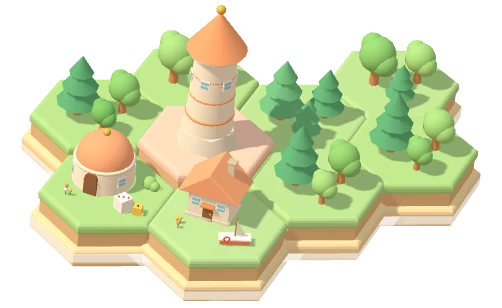
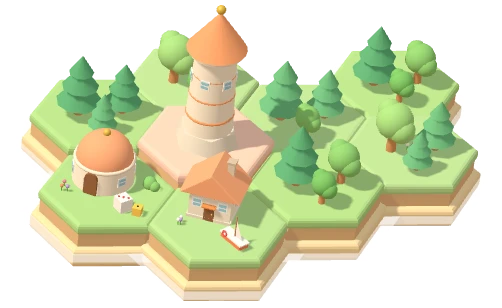
feat: 小常識島上架（島圖 7 入口、3D 小物、清單頁、README、報表頁名）

diff --git a/list.html b/list.html
@@ -294,23 +294,7 @@
                 <span class="play-btn">▶ 開始玩</span>
             </a>
 
-            <a href="./units/unit8-desktop-organizer/index.html" class="card" style="--c: #eab308;">
-                <span class="skill-tag">檔案整理</span>
-                <div class="card-cover">📁🖥</div>
-                <h3 class="card-title">桌面整理大師</h3>
-                <p class="card-desc">把作業、音樂、圖片拖到對的資料夾！學會分類整理，桌面再也不亂啦。</p>
-                <p class="card-score" id="unit8-score-badge" style="display:none;"></p>
-                <span class="play-btn">▶ 開始玩</span>
-            </a>
-
-            <a href="./units/unit9-net-detective/index.html" class="card" style="--c: #3b82f6;">
-                <span class="skill-tag">看圖判斷</span>
-                <div class="card-cover">🕵🛡</div>
-                <h3 class="card-title">網路小警察</h3>
-                <p class="card-desc">看三個圖，找出有沒有壞壞的！判斷好人壞人，當小偵探。</p>
-                <p class="card-score" id="unit9-score-badge" style="display:none;"></p>
-                <span class="play-btn">▶ 開始玩</span>
-            </a>
+            <!-- unit8 桌面整理大師、unit9 網路小警察：2026-11-22 重做成小常識島的寵物版，卡片搬到下方「小常識島」區塊 -->
 
             <a href="./units/unit10-classifier-captain/index.html" class="card" style="--c: #92400e;">
                 <span class="skill-tag">觀察分類</span>
@@ -482,6 +466,70 @@
         </div>
     </section>
 
+    <!-- ===== 小常識島：數位寵物養成（2026-11-22 改版，1–4 年級） ===== -->
+    <section class="grade-section" style="background: #f3eafb;">
+        <h2 style="color: #3b2350;">📁 小常識島：數位寵物養成</h2>
+        <p class="grade-hint" style="color: #3b2350;">先到寵物屋領養一隻寵物（填座號和名字，一台電腦可以住好幾隻），每過一關拿點心餵牠，集滿會長大，還能解鎖新衣服。</p>
+        <div class="card-grid">
+            <a href="./units/smart-pet-house/index.html" class="card" style="--c: #8a6ae0;">
+                <span class="skill-tag">從這裡開始</span>
+                <div class="card-cover">🏠🐾</div>
+                <h3 class="card-title">寵物小屋</h3>
+                <p class="card-desc">領養雲朵兔、鍵盤龜、螢幕貓或燈泡雞，幫牠取名字、換衣服，看看 6 關玩到哪裡。（附注音）</p>
+                <p class="card-score" id="pet-house-badge" style="display:none;"></p>
+                <span class="play-btn">▶ 進去看看</span>
+            </a>
+            <a href="./units/unit29-pet-computer/index.html" class="card" style="--c: #2f86c8;">
+                <span class="skill-tag">1–2 年級・認識電腦</span>
+                <div class="card-cover">💻🖱</div>
+                <h3 class="card-title">寵物的新電腦</h3>
+                <p class="card-desc">幫寵物在書桌上找出螢幕、鍵盤、滑鼠，認識每個設備做什麼用。（附注音）</p>
+                <p class="card-score" id="unit29-score-badge" style="display:none;"></p>
+                <span class="play-btn">▶ 開始玩</span>
+            </a>
+            <a href="./units/unit30-pet-schedule/index.html" class="card" style="--c: #ff8f3f;">
+                <span class="skill-tag">1–2 年級・健康使用</span>
+                <div class="card-cover">⏰👀</div>
+                <h3 class="card-title">寵物作息表</h3>
+                <p class="card-desc">坐姿對不對、眼睛累了怎麼辦、睡前能不能玩平板，幫寵物排好健康的一天。（附注音）</p>
+                <p class="card-score" id="unit30-score-badge" style="display:none;"></p>
+                <span class="play-btn">▶ 開始玩</span>
+            </a>
+            <a href="./units/unit8-desktop-organizer/index.html" class="card" style="--c: #eab308;">
+                <span class="skill-tag">1–4 年級・檔案整理</span>
+                <div class="card-cover">📁🖥</div>
+                <h3 class="card-title">寵物房間大整理</h3>
+                <p class="card-desc">原「桌面整理大師」：把作業、音樂、圖片拖到對的資料夾，看圖示不要被檔名騙了！（附注音）</p>
+                <p class="card-score" id="unit8-score-badge" style="display:none;"></p>
+                <span class="play-btn">▶ 開始玩</span>
+            </a>
+            <a href="./units/unit31-pet-message/index.html" class="card" style="--c: #b4372b;">
+                <span class="skill-tag">3–4 年級・網路安全</span>
+                <div class="card-cover">💬⚠</div>
+                <h3 class="card-title">寵物收到怪訊息</h3>
+                <p class="card-desc">陌生人要照片、帳號停用釣魚、群組有人被取笑，幫寵物想想怎麼回應才安全又有禮貌。</p>
+                <p class="card-score" id="unit31-score-badge" style="display:none;"></p>
+                <span class="play-btn">▶ 開始玩</span>
+            </a>
+            <a href="./units/unit32-pet-ai-homework/index.html" class="card" style="--c: #186b41;">
+                <span class="skill-tag">3–4 年級・資訊倫理與 AI</span>
+                <div class="card-cover">🤖📝</div>
+                <h3 class="card-title">寵物的 AI 作業</h3>
+                <p class="card-desc">AI 可以幫什麼、AI 也會出錯、跟 AI 聊天要小心：學會誠實、查證、保護自己。</p>
+                <p class="card-score" id="unit32-score-badge" style="display:none;"></p>
+                <span class="play-btn">▶ 開始玩</span>
+            </a>
+            <a href="./units/unit9-net-detective/index.html" class="card" style="--c: #3b82f6;">
+                <span class="skill-tag">3–4 年級・安全判斷</span>
+                <div class="card-cover">👮🛡</div>
+                <h3 class="card-title">寵物警察訓練</h3>
+                <p class="card-desc">原「網路小警察」：看情境卡判斷安全還是危險，5 關考過就是網路小警察！</p>
+                <p class="card-score" id="unit9-score-badge" style="display:none;"></p>
+                <span class="play-btn">▶ 開始玩</span>
+            </a>
+        </div>
+    </section>
+
     <!-- ===== 雙人對戰：兩台電腦連線（unit23 起），之後的對戰遊戲放這裡 ===== -->
     <section class="grade-section" style="background: #fff4d6;">
         <h2 style="color: #1b1b3a;">⚔ 雙人對戰</h2>
@@ -533,7 +581,7 @@
     function loadLocalScore(unitId) {
         return localStorage.getItem(`edtech-unit${unitId}-score`) || null;
     }
-    [1, 2, 3, 4, 6, 7, 8, 9, 10, 11, 12, 13, 14, 15, 16, 17, 19, 20, 21].forEach((id) => {
+    [1, 2, 3, 4, 6, 7, 10, 11, 12, 13, 14, 15, 16, 17, 19, 20, 21].forEach((id) => {   // 8、9 改版後存星星數，見 loadSmartBadges
         const score = loadLocalScore(id);
         const badge = document.getElementById(`unit${id}-score-badge`);
         if (score && badge) {
@@ -553,6 +601,20 @@
                 badge.style.display = 'inline-block';
             }
         });
+    })();
+
+    // 小常識島（2026-11-22 改版）存總星星數；寵物小屋顯示這台電腦住了幾隻寵物
+    (function loadSmartBadges() {
+        [8, 9, 29, 30, 31, 32].forEach((id) => {
+            let v = null;
+            try { v = localStorage.getItem(`edtech-unit${id}-score`); } catch (e) { /* 讀不到就不顯示 */ }
+            const badge = document.getElementById(`unit${id}-score-badge`);
+            if (v && Number(v) > 0 && badge) { badge.textContent = `⭐ 共 ${v} 顆星`; badge.style.display = 'inline-block'; }
+        });
+        let n = 0;
+        try { n = ((JSON.parse(localStorage.getItem('edtech-smart-pets') || '{}') || {}).pets || []).length; } catch (e) { /* 壞資料就不顯示 */ }
+        const pb = document.getElementById('pet-house-badge');
+        if (n && pb) { pb.textContent = `🐾 這台電腦住了 ${n} 隻寵物`; pb.style.display = 'inline-block'; }
     })();
 
     // unit22 存的是主線星星數（0～12），不是分數，另外顯示

diff --git a/island/data.js b/island/data.js
@@ -13,6 +13,7 @@
 const G1 = '🎒 一年級', GM = '📘 中年級', G3 = '🎓 三年級', GA = '🎲 都能玩';
 const T1 = '🌱 初階 1–3 年級', T2 = '🌿 進階 4–5 年級', T3 = '🌳 高階 6 年級';   // 打字島三階
 const A12 = '🎒 1–2 年級', A34 = '📘 3–4 年級', A14 = '🎨 1–4 年級';                // 畫畫島（2026-11-21 改版）
+const S14 = '⭐ 1–4 年級';                                                           // 小常識島 1–4 年級（2026-11-22；A12／A34 共用）
 
 export const ISLANDS = [
   { id:'mouse', name:'滑鼠島', icon:'🖱', color:0x5fd38d, units:[
@@ -45,9 +46,16 @@ export const ISLANDS = [
     ['對稱魔鏡','🦋','mirror','units/unit26-mirror-workshop/','對稱魔鏡工坊',A34,26],
     ['任務局','🛠','toolbox','units/unit27-paint-mission/','小畫家任務局',A34,27],
     ['煙火畫','🎆','fireworks','units/unit28-sparkle-fireworks/','閃亮亮煙火畫',A14,28] ] },   // 自由發揮、不評分（存作品張數）
+  // 小常識島（2026-11-22 改版：數位寵物養成）：寵物小屋＋新 4 關＋舊 2 關重做（unit8 桌面整理大師 → 寵物房間大整理、unit9 網路小警察 → 寵物警察訓練）
+  //   分數來源 'pet'＝讀 edtech-smart-pets，顯示這台電腦住了幾隻寵物
   { id:'smart', name:'小常識島', icon:'📁', color:0xb69bff, units:[
-    ['桌面整理','🗂','folders','units/unit8-desktop-organizer/','桌面整理大師',G1,8],
-    ['網路警察','👮','siren','units/unit9-net-detective/','網路小警察',G1,9] ] },
+    ['寵物屋','🏠','pethouse','units/smart-pet-house/','寵物小屋：領養與換裝',S14,'pet'],
+    ['新電腦','💻','pc','units/unit29-pet-computer/','寵物的新電腦',A12,29],
+    ['作息表','⏰','clock','units/unit30-pet-schedule/','寵物作息表',A12,30],
+    ['大整理','🗂','folders','units/unit8-desktop-organizer/','寵物房間大整理',S14,8],
+    ['怪訊息','💬','chat','units/unit31-pet-message/','寵物收到怪訊息',A34,31],
+    ['AI 作業','🤖','robot','units/unit32-pet-ai-homework/','寵物的 AI 作業',A34,32],
+    ['小警察','👮','siren','units/unit9-net-detective/','寵物警察訓練',A34,9] ] },
   { id:'board', name:'大富翁港', icon:'🎲', color:0xff9f5a, units:[
     ['森林大富翁','🌳','dice','board/index.html','資訊大富翁：森林大冒險',GA,'board:forest'],
     ['海洋大富翁','🐳','boat','board/ocean.html','資訊大富翁：海洋大探索',GA,'board:ocean'] ] },
@@ -71,6 +79,9 @@ let certs = {};
 try { certs = (JSON.parse(ls('edtech-board-certs') || '{}') || {}).zones || {}; } catch { /* 壞資料就當沒證書 */ }
 
 function record(src) {
+  if (src === 'pet') {   // 小常識島寵物小屋：這台電腦住了幾隻寵物
+    try { const n = ((JSON.parse(ls('edtech-smart-pets') || '{}') || {}).pets || []).length; return n ? { pets:n } : null; } catch { return null; }
+  }
   if (typeof src === 'string') { const c = certs[src.split(':')[1]]; return c ? { stars:c.stars || 1, coins:c.coins || 0 } : null; }
   const s = ls(`edtech-unit${src}-score`) ?? ls(`edtech-unit${src}-best-score`);
   return s ? { score:s } : null;
@@ -84,7 +95,7 @@ ISLANDS.forEach((isl, ii) => isl.units.forEach(u => UNITS.push({
 })));
 ISLANDS.forEach((isl, ii) => { isl.list = UNITS.filter(u => u.ii === ii); });
 
-export const recText = u => !u.rec ? '🆕 還沒玩' : u.rec.stars ? '⭐'.repeat(u.rec.stars) : `🏆 ${u.rec.score}`;
+export const recText = u => !u.rec ? '🆕 還沒玩' : u.rec.pets ? `🐾 ${u.rec.pets} 隻寵物` : u.rec.stars ? '⭐'.repeat(u.rec.stars) : `🏆 ${u.rec.score}`;
 export const hex = c => '#' + c.toString(16).padStart(6, '0');
 export const pastelHex = (c, a = .3) => {
   const r = c >> 16 & 255, g = c >> 8 & 255, b = c & 255, m = v => Math.round(v + (255 - v) * a);

diff --git a/island-3d.html b/island-3d.html
@@ -390,6 +390,32 @@ const PROPS = {
     for (let i=0;i<12;i++) { const a = i/12*Math.PI*2, b = (i%3-1)*.5;
       mesh(SP(.022,6,6), cs[i%5], g, -.08+Math.cos(a)*.12*Math.cos(b), .42+Math.sin(b)*.1, Math.sin(a)*.12*Math.cos(b)); }
     mesh(SP(.03,8,6), 0xffffff, g, -.08,.42,0); },
+  // ---- 小常識島（2026-11-22 改版：數位寵物養成）----
+  pethouse(g) {   // 寵物小屋：桃色小屋＋紫屋頂＋門口一顆白色雲朵寶寶（smart-pet-house）
+    mesh(B(.26,.18,.22), 0xffd2b0, g, 0,.09,0);
+    const r = mesh(CO(.21,.14,4), 0x8a6ae0, g, 0,.25,0); r.rotation.y = Math.PI/4;
+    mesh(B(.07,.11,.01), 0xc75f17, g, 0,.055,.111);
+    mesh(SP(.055,12,10), 0xf3f5ff, g, .1,.055,.16); mesh(SP(.035,10,8), 0xf3f5ff, g, .1,.12,.16);
+    mesh(SP(.012,6,6), 0x3b2350, g, .088,.125,.19); mesh(SP(.012,6,6), 0x3b2350, g, .112,.125,.19); },
+  pc(g) {   // 寵物的新電腦：螢幕＋鍵盤＋滑鼠（unit29）
+    mesh(B(.24,.16,.02), 0x3b2350, g, 0,.15,-.04); mesh(B(.2,.12,.005), 0x9bd7f2, g, 0,.15,-.028, { emissive:0x4fa8d8, emissiveIntensity:.35 });
+    mesh(B(.03,.06,.03), 0x5c4870, g, 0,.04,-.04); mesh(B(.1,.01,.06), 0x5c4870, g, 0,.008,-.04);
+    mesh(B(.2,.015,.07), 0xffffff, g, -.02,.008,.08); mesh(SP(.025,10,8), 0xffffff, g, .13,.018,.08).scale.set(1,.6,1.4); },
+  clock(g) {   // 寵物作息表：鬧鐘（unit30）
+    const f = mesh(CY(.11,.11,.05,24), 0xffffff, g, 0,.13,0); f.rotation.x = Math.PI/2;
+    const rim = mesh(new THREE.TorusGeometry(.11,.018,8,24), 0xff8f3f, g, 0,.13,0);
+    mesh(B(.012,.07,.01), 0x3b2350, g, 0,.155,.03); mesh(B(.05,.012,.01), 0x3b2350, g, .02,.13,.03);
+    [-1,1].forEach(s => { mesh(SP(.035,10,8), 0xff8f3f, g, s*.08,.235,0); mesh(CY(.01,.01,.05,6), 0x5c4870, g, s*.07,.02,0); }); },
+  chat(g) {   // 寵物收到怪訊息：手機＋對話泡泡＋紅色驚嘆號（unit31）
+    const ph = mesh(B(.12,.22,.02), 0x3b2350, g, -.05,.12,0); ph.rotation.z = .12;
+    mesh(B(.1,.18,.005), 0xece3fa, g, -.05,.12,.012).rotation.z = .12;
+    mesh(B(.14,.08,.03), 0xffffff, g, .09,.26,.02); mesh(CO(.02,.04,3), 0xffffff, g, .05,.21,.02).rotation.z = Math.PI;
+    mesh(B(.014,.04,.01), 0xb4372b, g, .09,.27,.04); mesh(SP(.009,6,6), 0xb4372b, g, .09,.24,.04); },
+  robot(g) {   // 寵物的 AI 作業：小機器人＋作業本（unit32）
+    mesh(B(.14,.12,.1), 0xddf3e6, g, 0,.08,0); mesh(B(.16,.11,.12), 0xffffff, g, 0,.21,0);
+    [-1,1].forEach(s => mesh(SP(.018,8,6), 0x6a45c9, g, s*.035,.22,.062, { emissive:0x6a45c9, emissiveIntensity:.4 }));
+    mesh(CY(.006,.006,.06,6), 0x5c4870, g, 0,.29,0); mesh(SP(.02,8,6), 0xffc233, g, 0,.33,0, { emissive:0xffb000, emissiveIntensity:.4 });
+    mesh(B(.14,.012,.1), 0xffe1cb, g, .17,.006,.06).rotation.y = -.3; },
   folders(g) { [0xffc94d,0x6fb3ff,0xff8fb1].forEach((c,i) => { mesh(B(.26,.05,.19), c, g, .02*i,.025+i*.055,-.01*i).rotation.y = i*.12; mesh(B(.08,.05,.02), c, g, -.08+.02*i,.03+i*.055,-.1-.01*i).rotation.y = i*.12; }); },
   siren(g) { mesh(CY(.1,.12,.08,16), 0x4a5a7a, g, 0,.04,0); mesh(SP(.07,14,10,0,Math.PI*2,0,Math.PI/2), 0xff4d4d, g, -.04,.08,0, { emissive:0xff2a2a, emissiveIntensity:.5, roughness:.2 });
     mesh(SP(.07,14,10,0,Math.PI*2,0,Math.PI/2), 0x4d8bff, g, .06,.08,0, { emissive:0x2a5aff, emissiveIntensity:.5, roughness:.2 }); mesh(CY(.13,.15,.03,6), 0xfff6e6, g, 0,.18,.05).rotation.x = Math.PI/2; },

diff --git a/analytics-worker/src/report.html b/analytics-worker/src/report.html
@@ -192,8 +192,13 @@
     'unit5-pixel-art': '像素小畫家',
     'unit6-turtle-commander': '烏龜小指揮官',
     'unit7-spell-commander': '指令小法師',
-    'unit8-desktop-organizer': '桌面整理大師',
-    'unit9-net-detective': '網路小警察',
+    'unit8-desktop-organizer': '寵物房間大整理',
+    'unit9-net-detective': '寵物警察訓練',
+    'unit29-pet-computer': '寵物的新電腦',
+    'unit30-pet-schedule': '寵物作息表',
+    'unit31-pet-message': '寵物收到怪訊息',
+    'unit32-pet-ai-homework': '寵物的 AI 作業',
+    'smart-pet-house': '寵物小屋',
     'unit10-classifier-captain': '分類大隊長',
     'unit11-space-typing-pro': '英打太空特攻',
     'unit12-space-typing-zh': '中打太空特攻',

diff --git a/units/smart-pet-house/index.html b/units/smart-pet-house/index.html
@@ -228,4 +228,5 @@
   show(SP.current() ? 'room' : 'adopt');
 })();
 </script>
+<script defer src="../../assets/js/beacon.js"></script>
 </body></html>

diff --git a/README.md b/README.md
@@ -34,8 +34,13 @@
 | 🎨 1–4 年級 | `unit5-pixel-art` | 像素小畫家 | 畫畫島：低年級數字填色、中年級座標畫圖、像素概念與自由創作 |
 | 🎒 一年級 | `unit6-turtle-commander` | 烏龜小指揮官 | 運算思維入門：序列、除錯、最少步數 |
 | 🎒 一年級 | `unit7-spell-commander` | 指令小法師 | 滑鼠+鍵盤整合、運算思維：順序、重複、條件 |
-| 🎒 一年級 | `unit8-desktop-organizer` | 桌面整理大師 | 檔案管理、拖曳整理、檔案類型辨識 |
-| 🎒 一年級 | `unit9-net-detective` | 網路小警察（圖示判斷版）| 資訊倫理、看圖辨識壞訊號（零文字依賴） |
+| ⭐ 1–4 年級 | `smart-pet-house` | 寵物小屋 | 小常識島大廳：領養寵物（座號＋名字，一台電腦多隻）、換裝、6 關進度（注音） |
+| 🎒 1–2 年級 | `unit29-pet-computer` | 寵物的新電腦 | 小常識島：電腦設備名稱與用途、生活中的資訊產品（資E1，注音） |
+| 🎒 1–2 年級 | `unit30-pet-schedule` | 寵物作息表 | 小常識島：坐姿、護眼、3C 作息（資E11，注音） |
+| ⭐ 1–4 年級 | `unit8-desktop-organizer` | 寵物房間大整理（原桌面整理大師） | 小常識島：依圖示把檔案拖進資料夾、看圖示不看檔名（資E8，注音） |
+| 📘 3–4 年級 | `unit31-pet-message` | 寵物收到怪訊息 | 小常識島：陌生人訊息、釣魚與假訊息、群組禮儀（資E12、資E7） |
+| 📘 3–4 年級 | `unit32-pet-ai-homework` | 寵物的 AI 作業 | 小常識島：合宜使用生成式 AI——誠實、查證、保護個資（資E12、資E2） |
+| 📘 3–4 年級 | `unit9-net-detective` | 寵物警察訓練（原網路小警察） | 小常識島：5 關 25 題情境判斷安全或危險（資E12） |
 | 🎒 一年級 | `unit10-classifier-captain` | 分類大隊長 | 觀察分類、依特徵歸組（資料概念入門） |
 | 📘 中年級 | `unit1-typing-adventure` | 中文打字冒險王 | 注音輸入、中文識讀、闖關成就感 |
 | 📘 中年級 | `unit11-space-typing-pro` | 英打太空特攻 | 計時英打練習、漸進難度、WPM 計分 |
@@ -106,10 +111,12 @@ edtech-portfolio/
     │   └── index.html
     ├── unit7-spell-commander/
     │   └── index.html
-    ├── unit8-desktop-organizer/
+    ├── unit8-desktop-organizer/      # 小常識島：寵物房間大整理
     │   └── index.html
-    ├── unit9-net-detective/
+    ├── unit9-net-detective/          # 小常識島：寵物警察訓練
     │   └── index.html
+    ├── unit29-pet-computer/ … unit32-pet-ai-homework/   # 小常識島新 4 關
+    ├── smart-pet-house/              # 小常識島：寵物小屋
     ├── unit10-classifier-captain/
     │   └── index.html
     ├── unit11-space-typing-pro/
